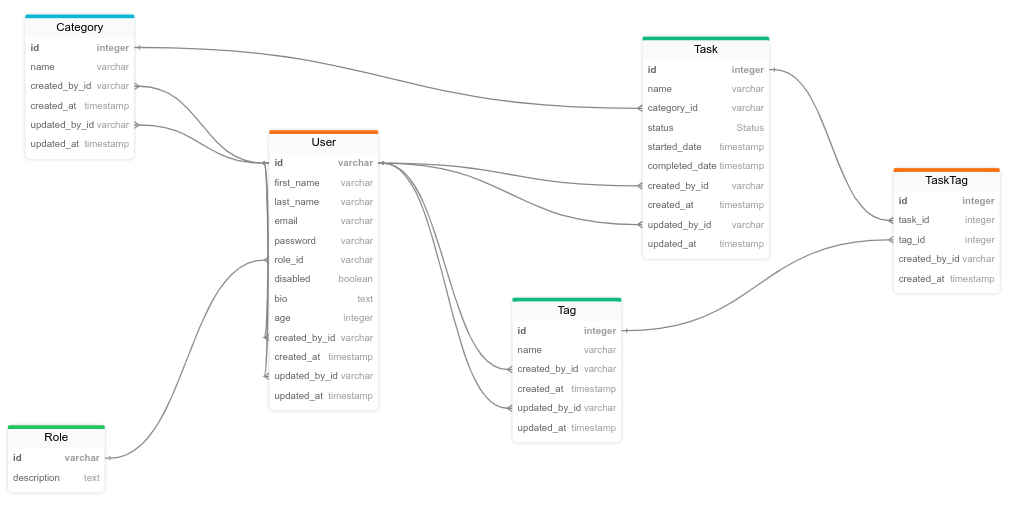
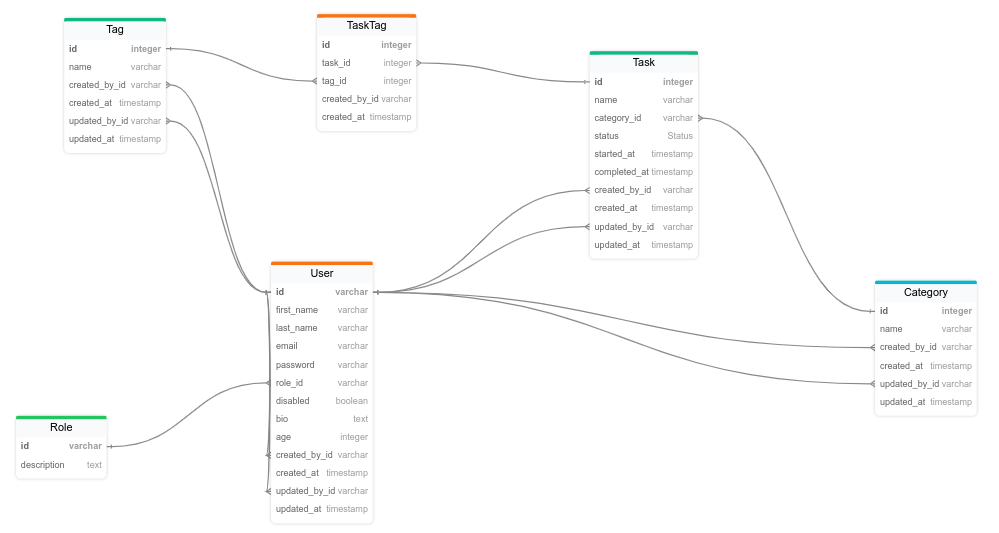
Solution of exam 2024/06/13

diff --git a/exams/2024/06-13/solution/model.py b/exams/2024/06-13/solution/model.py
@@ -2,6 +2,7 @@ from datetime import datetime
 from enum import Enum
 from typing import List, Optional, Self
 
+from error import ConflictException
 from pydantic import BaseModel
 from sqlalchemy import Column, Integer, String
 from sqlmodel import Field, Relationship, SQLModel, create_engine
@@ -51,23 +52,23 @@ class Status(Enum):
 class TaskCreate(SQLModel):
     name: str
     category_id: int = Field(foreign_key="category.id")
-    status: Status = Field(default=Status.TODO)
-    started_date: Optional[datetime] = Field(default=None)
-    completed_date: Optional[datetime] = Field(default=None)
+    started_at: Optional[datetime] = Field(default=None)
+    completed_at: Optional[datetime] = Field(default=None)
 
 
 class TaskUpdate(SQLModel):
     name: Optional[str] = None
     category_id: Optional[int] = Field(foreign_key="category.id", default=None)
     status: Optional[Status] = Field(default=None)
-    started_date: Optional[datetime] = Field(default=None)
-    completed_date: Optional[datetime] = Field(default=None)
+    started_at: Optional[datetime] = Field(default=None)
+    completed_at: Optional[datetime] = Field(default=None)
 
 
 class TaskPublic(TaskCreate, BasePublic):
     id: int = Field(
         sa_column=Column("id", Integer, primary_key=True, autoincrement=True)
     )
+    status: Status = Field(default=Status.TODO)
 
 
 class Task(TaskPublic, table=True):
@@ -97,13 +98,15 @@ class Task(TaskPublic, table=True):
     def additional_updates(self: Self) -> Self:
         match self.status:
             case Status.TODO:
-                self.started_date = None
-                self.completed_date = None
+                self.started_at = None
+                self.completed_at = None
             case Status.STARTED:
-                self.started_date = datetime.now()
-                self.completed_date = None
+                self.started_at = datetime.now()
+                self.completed_at = None
             case Status.COMPLETED:
-                self.completed_date = datetime.now()
+                if self.started_at is None:
+                    raise ConflictException(target="Task", id=self.id)
+                self.completed_at = datetime.now()
 
 
 # Role

diff --git a/exams/2024/06-13/solution/db.py b/exams/2024/06-13/solution/db.py
@@ -69,25 +69,32 @@ class DB[ModelType: SQLModel]:
     ) -> ModelType:
         model_db = self.read(id)
         print(model_db)
-        try:
-            with Session(engine) as session:
+        with Session(engine) as session:
+            try:
                 model_data = model.model_dump(exclude_unset=True)
                 print(model_data)
                 for key, value in model_data.items():
                     setattr(model_db, key, value)
                 model_db.updated_by_id = user.id
-                if hasattr(model_db, "additional_updates") and callable(
-                    model_db.additional_updates
-                ):
-                    model_db.additional_updates()
+            except Exception as e:
+                raise HTTPException(
+                    status.HTTP_500_INTERNAL_SERVER_ERROR, str(e)
+                )
+            if hasattr(model_db, "additional_updates") and callable(
+                model_db.additional_updates
+            ):
+                model_db.additional_updates()
+            try:
                 session.add(model_db)
                 session.commit()
                 session.refresh(model_db)
                 return Result(
                     action=Action.UPDATED, target=self.model_text, id=id
                 )
-        except Exception as e:
-            raise HTTPException(status.HTTP_500_INTERNAL_SERVER_ERROR, str(e))
+            except Exception as e:
+                raise HTTPException(
+                    status.HTTP_500_INTERNAL_SERVER_ERROR, str(e)
+                )
 
     def delete(self: Self, id: str | int) -> Result:
         model = self.read(id)

diff --git a/exams/2024/06-13/solution/error.py b/exams/2024/06-13/solution/error.py
@@ -1,27 +1,44 @@
 from datetime import datetime
+from enum import Enum
 from typing import Self
 
 from fastapi import Request, status
 from fastapi.responses import JSONResponse
 
 
-class NotFoundException(Exception):
+class Action(str, Enum):
+    NOT_FOUND = "Not Found"
+    CONFLICT = "Conflict"
+
+
+class BaseException(Exception):
     def __init__(self: Self, target: str, id: str | int) -> Self:
         self.target = target
         self.id = id
 
+    def response(self: Self) -> JSONResponse:
+        return JSONResponse(
+            status_code=status.HTTP_404_NOT_FOUND,
+            content=dict(
+                action=self.action,
+                target=self.target,
+                id=self.id,
+                error=True,
+                success=False,
+                # timestamp=datetime.now(), # FIXME not JSON serializable
+            ),
+        )
 
-async def not_found_exception_handler(
-    request: Request, exc: NotFoundException
-):
-    return JSONResponse(
-        status_code=status.HTTP_404_NOT_FOUND,
-        content=dict(
-            action="Not Found",
-            target=exc.target,
-            id=exc.id,
-            error=True,
-            success=False,
-            # timestamp=datetime.now(), # FIXME not JSON serializable
-        ),
-    )
+
+async def exception_handler(
+    request: Request, exc: BaseException
+) -> JSONResponse:
+    return exc.response()
+
+
+class NotFoundException(BaseException):
+    action = Action.NOT_FOUND
+
+
+class ConflictException(BaseException):
+    action = Action.CONFLICT

diff --git a/exams/2024/06-13/solution/me/task_tag.py b/exams/2024/06-13/solution/me/task_tag.py
@@ -1,4 +1,4 @@
-from typing import Annotated
+from typing import Annotated, List
 
 from auth import RoleChecker
 from db import DB
@@ -30,6 +30,35 @@ async def me_create_task_tag(
         current_user.tags_created + current_user.tags_updated,
     )
     return db_task_tag.create(task_tag, current_user)
+
+
+@router.get(
+    "/task-tag/created",
+    tags=tags,
+    summary="Get all the created task-tag relationships",
+)
+async def me_read_task_tags_created(
+    current_user: Annotated[
+        User, Depends(RoleChecker(allowed_role_ids=["admin", "user"]))
+    ],
+) -> List[TaskTag]:
+    return current_user.task_tags_created
+
+
+@router.get(
+    "/task-tag/{task_tag_id}",
+    tags=tags,
+    summary="Get the details of a task-tag relationship",
+)
+async def me_read_task_tag(
+    current_user: Annotated[
+        User, Depends(RoleChecker(allowed_role_ids=["admin", "user"]))
+    ],
+    task_tag_id: int,
+) -> TaskTag:
+    return db_task_tag.read_personal(
+        task_tag_id, current_user.task_tags_created
+    )
 
 
 @router.delete(

diff --git a/exams/2024/06-13/solution/app.py b/exams/2024/06-13/solution/app.py
@@ -12,7 +12,7 @@ import me.task  # noqa: F401
 import me.task_tag  # noqa: F401
 from admin import router as router_admin
 from auth import router as router_auth
-from error import NotFoundException, not_found_exception_handler
+from error import ConflictException, NotFoundException, exception_handler
 from fastapi import FastAPI
 from me import router as router_me
 
@@ -24,4 +24,5 @@ app = FastAPI(title=app_name.upper(), debug=True)
 app.include_router(router_me)
 app.include_router(router_admin)
 app.include_router(router_auth)
-app.add_exception_handler(NotFoundException, not_found_exception_handler)
+app.add_exception_handler(NotFoundException, exception_handler)
+app.add_exception_handler(ConflictException, exception_handler)
